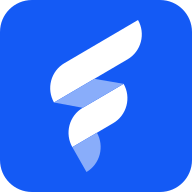
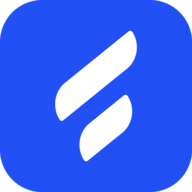
Update branding getflip dev (#1819)

diff --git a/apps/swirl-docs/src/pages/index.tsx b/apps/swirl-docs/src/pages/index.tsx
@@ -17,7 +17,7 @@ const Home: NextPage = () => {
   return (
     <>
       <Head>
-        <title>Flip & Swirl Developer Docs</title>
+        <title>Flip AI & Swirl Developer Docs</title>
       </Head>
 
       <div className="flex flex-col items-center h-[calc(100vh_-_72px)] md:px-space-16 overflow-auto">
@@ -26,11 +26,11 @@ const Home: NextPage = () => {
             <div className="flex flex-col md:flex-row md:items-center w-full gap-4 justify-between md:max-w-[50rem] mx-auto">
               <div className="basis-0 grow max-w-[22.5rem]">
                 <h1 className="font-bold text-[2.5rem] mb-space-8">
-                  Build with Flip
+                  Build with Flip AI
                 </h1>
                 <p className="text-font-size-lg text-text-on-surface-highlight-subdued mb-space-24">
                   Design, build, and deliver improved experiences for the
-                  blue-collar world using the Swirl design system and Flip APIs.
+                  blue-collar world using the Swirl design system and our APIs.
                 </p>
                 <Link
                   href="/tokens/color"

diff --git a/apps/swirl-docs/src/lib/navigation/src/data/navItems.ts b/apps/swirl-docs/src/lib/navigation/src/data/navItems.ts
@@ -22,7 +22,7 @@ export const navItems: NavItem[] = [
     title: CategoryEnum.API,
     url: apiDocsNavItems[0].url,
     description:
-      "Uniform APIs and documents for our Flip system, ensuring seamless integration across platforms.",
+      "Uniform APIs and documents for our system, ensuring seamless integration across platforms.",
     teaserIcon: "/images/teaser-icon-api.svg",
     comingSoon: true,
     children: [
@@ -42,7 +42,7 @@ export const navItems: NavItem[] = [
     url: "/components",
     devOnly: true,
     description:
-      "Consistent web components for our Flip system, ensuring harmony across platforms.",
+      "Consistent web components for our system, ensuring harmony across platforms.",
     teaserIcon: "/images/teaser-icon-component.svg",
   },
   {

diff --git a/apps/swirl-docs/src/components/Layout/Footer.tsx b/apps/swirl-docs/src/components/Layout/Footer.tsx
@@ -5,7 +5,7 @@ import classNames from "classnames";
 
 const links: NavLink[] = [
   {
-    name: "About Flip",
+    name: "About Flip AI",
     path: "https://www.getflip.com/about-us/",
   },
   {
@@ -38,7 +38,12 @@ const Footer = () => {
         )}
       >
         <span className="mb-6 md:mb-0">
-          <Image alt="Flip Logo" src="/flip-logo.svg" width={70} height={30} />
+          <Image
+            alt="Flip AI logo"
+            src="/flip-ai-logo.svg"
+            width={96}
+            height={30}
+          />
         </span>
         <ul className="flex flex-col md:flex-row justify-center items-center">
           {links.map((link, index) => (

diff --git a/apps/swirl-docs/src/pages/newsletter.tsx b/apps/swirl-docs/src/pages/newsletter.tsx
@@ -29,11 +29,11 @@ const Newsletter: NextPage = () => {
     <>
       <Head>
         <title>
-          Subscribe to the Flip Developer Newsletter — getflip.dev
+          Subscribe to the Flip AI Developer Newsletter — getflip.dev
         </title>
         <meta
           name="description"
-          content="Get product updates, API changes, and engineering deep-dives from the Flip developer team delivered to your inbox."
+          content="Get product updates, API changes, and engineering deep-dives from the Flip AI developer team delivered to your inbox."
         />
       </Head>
 

diff --git a/apps/swirl-docs/src/lib/navigation/src/data/foundations.data.ts b/apps/swirl-docs/src/lib/navigation/src/data/foundations.data.ts
@@ -5,6 +5,6 @@ export const foundationsNavItems: NavItem[] = [
     title: "About Swirl",
     url: "/",
     description:
-      "Learn what the swirl design system is and how it's used by designers and developers to build world-class flip admin experiences.",
+      "Learn what the swirl design system is and how it's used by designers and developers to build world-class Flip AI admin experiences.",
   },
 ];

diff --git a/apps/swirl-docs/src/pages/_document.tsx b/apps/swirl-docs/src/pages/_document.tsx
@@ -20,7 +20,7 @@ class MyDocument extends Document {
             sizes="180x180"
           />
           <link rel="manifest" href="/site.webmanifest" />
-          <link rel="mask-icon" href="/safari-pinned-tab.svg" color="#145af5" />
+          <link rel="mask-icon" href="/safari-pinned-tab.svg" color="#2151f5" />
         </Head>
         <body>
           <Main />

diff --git a/apps/swirl-docs/src/pages/_app.tsx b/apps/swirl-docs/src/pages/_app.tsx
@@ -19,8 +19,8 @@ function GetFlipDev({ Component, pageProps }: AppProps) {
 
 const PasswordProtectedGetFlipDev = withPasswordProtect(GetFlipDev, {
   loginComponentProps: {
-    logo: "/flip-logo.svg",
-    buttonBackgroundColor: "#145af5",
+    logo: "/flip-ai-logo.svg",
+    buttonBackgroundColor: "#2151f5",
     buttonColor: "#fff",
   },
 });

diff --git a/apps/swirl-docs/src/components/Navigation/HeaderNavigation/index.tsx b/apps/swirl-docs/src/components/Navigation/HeaderNavigation/index.tsx
@@ -23,8 +23,8 @@ export const HeaderLogo = ({ onClick }: { onClick?: () => void }) => {
     >
       <Image
         alt="Swirl home"
-        src="/swirl-icon-temp.svg"
-        width={28}
+        src="/swirl_blue.svg"
+        width={18}
         height={28}
         className="max-h-7"
       />

diff --git a/apps/swirl-docs/src/components/Layout/PreFooter.tsx b/apps/swirl-docs/src/components/Layout/PreFooter.tsx
@@ -15,7 +15,7 @@ const PreFooter = () => {
         <nav>
           <ul>
             <li>Developer Changelog</li>
-            <li>Flip Status</li>
+            <li>Flip AI Status</li>
           </ul>
         </nav>
       </PreFooterTile>

diff --git a/.changeset/serious-socks-fetch.md b/.changeset/serious-socks-fetch.md
@@ -1,0 +1,5 @@
+---
+"swirl-docs": patch
+---
+
+Update logos and mentions of Flip
